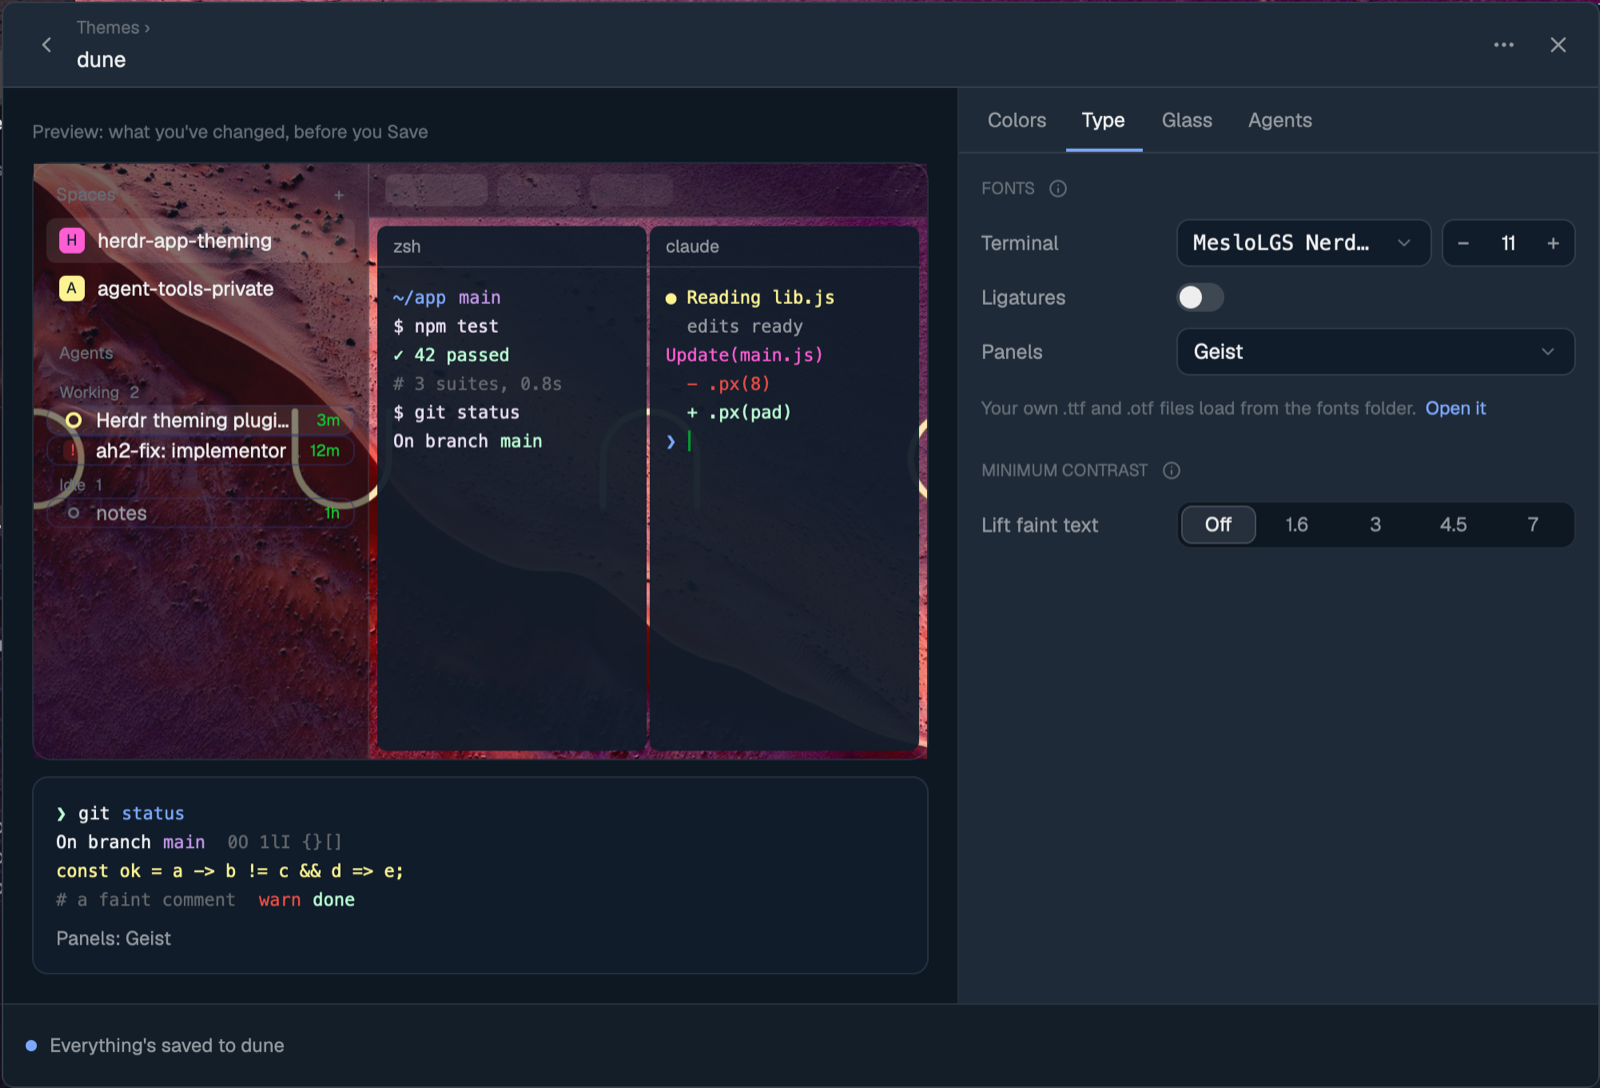
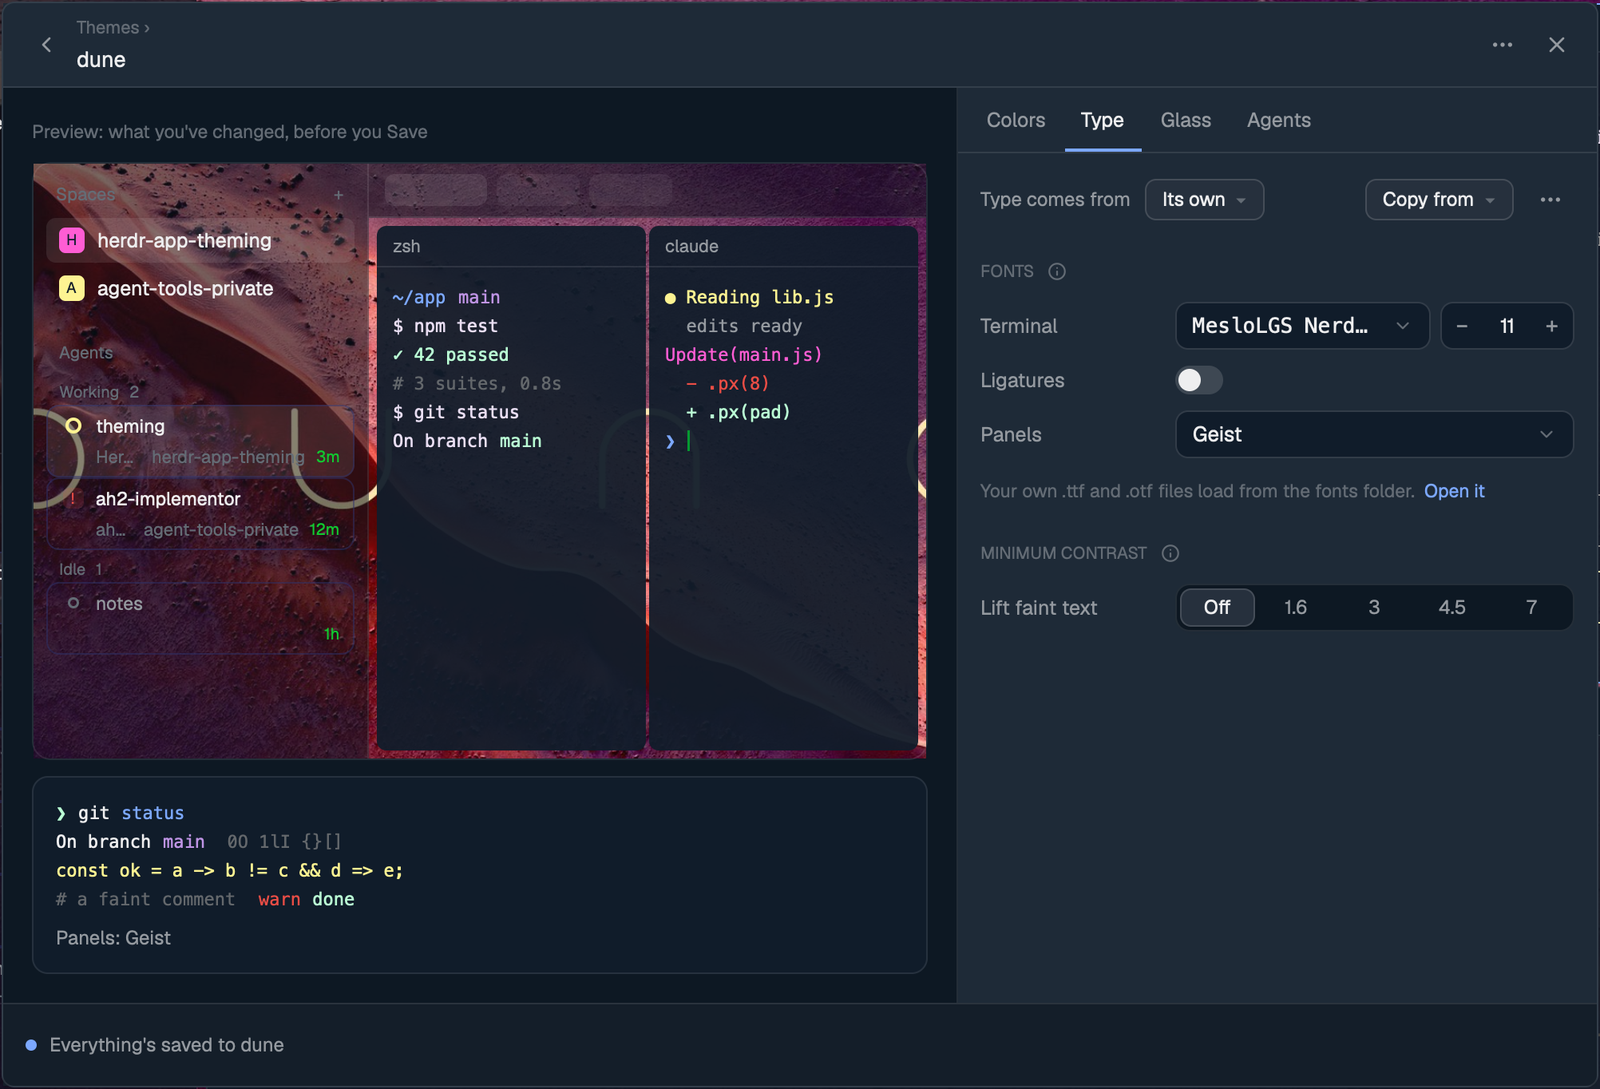
Screenshots for 0.7.0: the comes-from bar, Base, Defaults
Claude-Session: https://claude.ai/code/session_01C6jtLMUvmADjTbxwyPycKJ

diff --git a/README.md b/README.md
@@ -197,7 +197,7 @@ own copy of the layout (`<layout>-studio`). The same panes, before and after:
 
 #### Agents
 
-![Agents tab, Compact with cards](docs/screenshots/agents.png)
+![Agents tab, Dense with cards](docs/screenshots/agents.png)
 
 The sidebar's agents list. Herdr's own (left) and one with Compact density, cards, status on the left and
 no icons (right):
